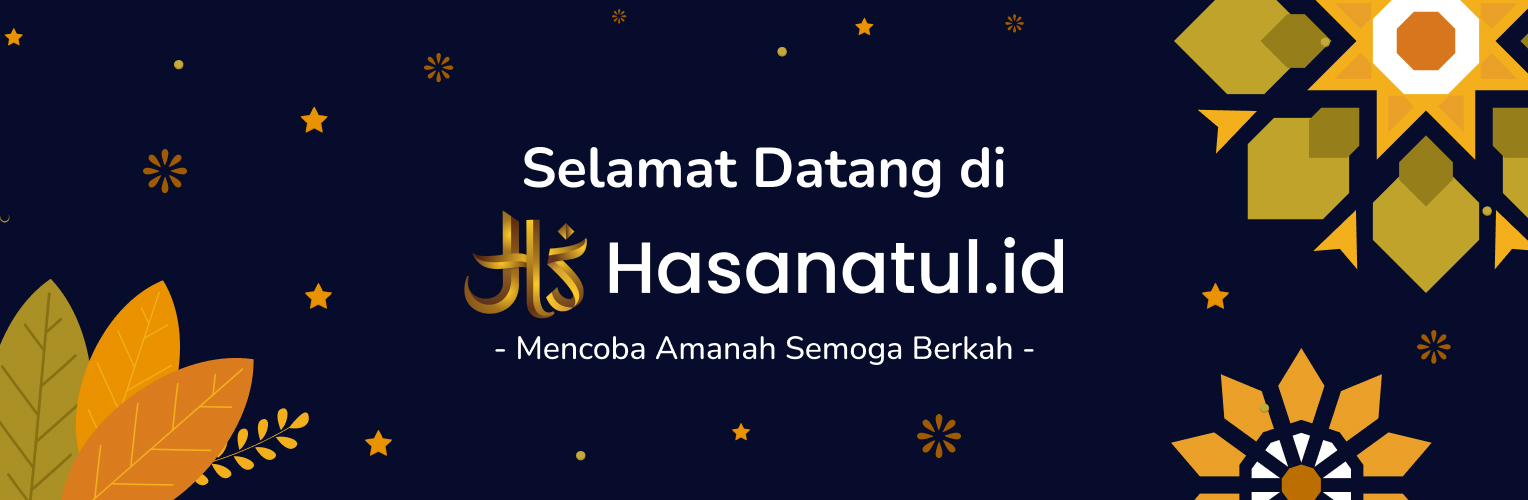
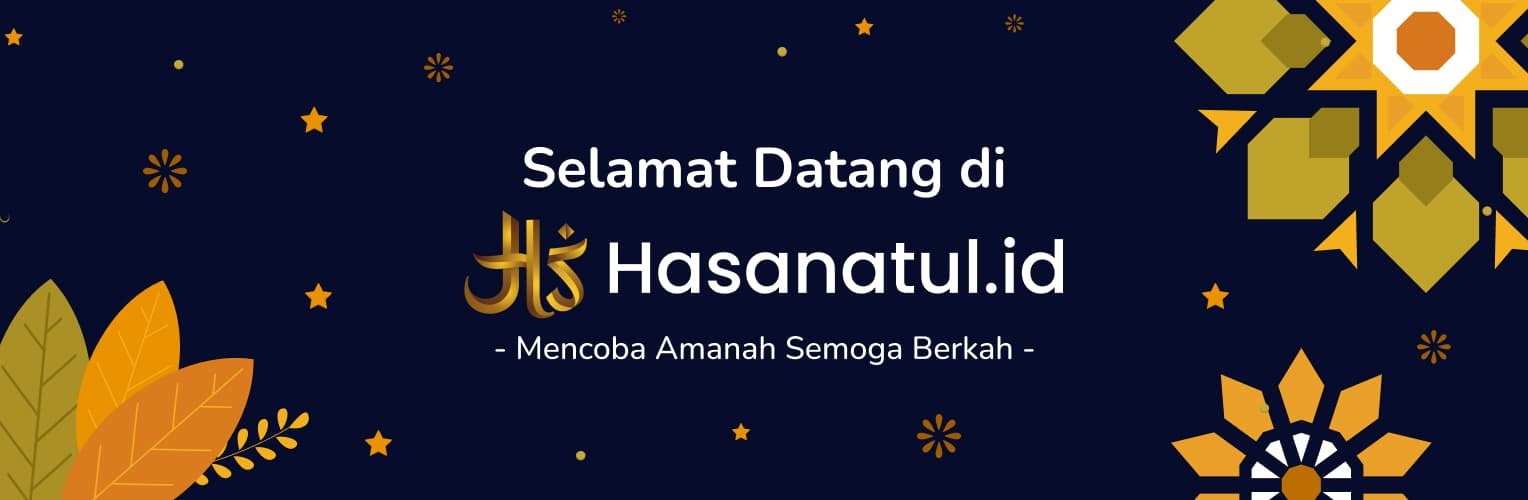
Optimize Image

diff --git a/index.html b/index.html
@@ -12,7 +12,7 @@
     />
     <meta
       name="keywords"
-      content="Portal Hasanatul, Hasanatul.id, Hasanatul Store, Kredit Syariah, Rental Mobil, Karawang, Kredit Tanpa Riba"
+      content="Portal Hasanatul, Hasanatul.id, Hasanatul Store, Kredit Syariah, Rental Mobil, Karawang, Kredit Tanpa Riba, Sewa Mobil, Cecenet, FKG, Fratama Kencana Gemilang, Lamani Indonesia, Beli Komputer, Beli Laptop, Service Laptop Karawang, Service Komputer Karawang"
     />
     <meta name="author" content="Hasanatul" />
     <meta name="revisit-after" content="1 days" />
@@ -112,7 +112,7 @@
 
     <!-- Preload Assets -->
     <link rel="preload" href="assets/images/logo.png" as="image" />
-    <link rel="preload" href="assets/images/banner-image-1.jpg" as="image" />
+    <link rel="preload" href="assets/images/banner-image-1.webp" as="image" />
   </head>
   <body>
     <header>
@@ -146,28 +146,28 @@
           <div class="slider">
             <a href="#" target="_blank" class="slider-link">
               <img
-                src="assets/images/banner-image-1.jpg"
+                src="assets/images/banner-image-1.webp"
                 alt="Image Slider"
                 class="slider-image"
               />
             </a>
             <a href="#" target="_blank" class="slider-link">
               <img
-                src="assets/images/banner-image-2.jpg"
+                src="assets/images/banner-image-2.webp"
                 alt="Image Slider"
                 class="slider-image"
               />
             </a>
             <a href="#" target="_blank" class="slider-link">
               <img
-                src="assets/images/banner-image-3.jpg"
+                src="assets/images/banner-image-3.webp"
                 alt="Image Slider"
                 class="slider-image"
               />
             </a>
             <a href="#" target="_blank" class="slider-link">
               <img
-                src="assets/images/banner-image-4.jpg"
+                src="assets/images/banner-image-4.webp"
                 alt="Image Slider"
                 class="slider-image"
               />
